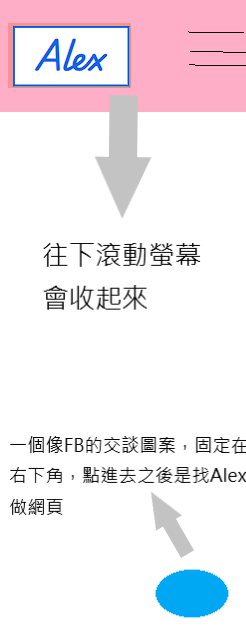
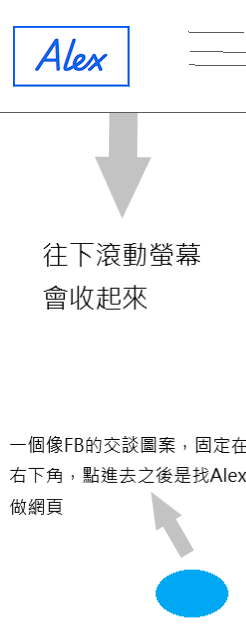
設定LOGO，menuIcon

Changed region(s): [[0.0, 0.0, 1.0, 0.1812]]

diff --git a/index.css b/index.css
@@ -31,7 +31,6 @@
 header {
     position: fixed;
     /* 用flex box排版 */
-    justify-content: center; /* 水平置中 */
     align-items: center; /* 垂直置中 */
     
 
@@ -42,12 +41,12 @@ header {
     /* 設定圖層在最上方，數字越大越上面 */
     z-index: 100;
 
-    background-color: rgb(253, 145, 145);/* 記得刪除 */
-
     width: 100vw;
     height: 14vh;
-    
-    }
+
+    background-color: white;
+    border-bottom: 0.005em solid rgb(224, 224, 224);    
+}
 @media screen and (min-width:576px) {
    header {
     position: fixed;
@@ -84,28 +83,18 @@ header {
     flex-flow: wrap; /* 讓row變多行 */
 }
 
-#navUl a {
-    margin: 3vh;
-    padding: 1vh;
-    color: black; /* 移除超連結顏色 */
-    text-decoration: none; /* 移除超連結底線 */
-    display: block;/* 讓 <a> 填滿 <li> */
-    font-size: 4vh;
-}
 
-#navUl a:hover {
-    background-color: rgb(115, 115, 115);
-    color: white;
-}
 
 #alexLogo {
-    width: 35%;
+    position: absolute;
+    left: 5%;
+    width: 20%;
     height: 50%;
     border: 0.75vw solid #166aea;
     background-color: white;
-    padding: 1vw;
+    padding: 1.5vw;
 
-    font-size: 10vw;
+    font-size: 8vw;
     font-weight: 900;
     text-decoration: none;
     color: #166aea;
@@ -137,13 +126,41 @@ header >a:hover {
     
 }
 
-nav {
+#navTest {
+    position: absolute;
+    right: 5%;
+    width: 10%;
+}
+/* ---------------menuIcon的css開始--------------- */
+#menuIcon {
+  display: inline-block;
+  cursor: pointer;
+}
+.bar1, .bar2, .bar3 {
+  width: 35px;
+  height: 5px;
+  background-color: #333;
+  margin: 6px 0;
+  transition: 0.4s;
+}
+/* Rotate first bar */
+.change .bar1 {
+  transform: translate(0, 11px) rotate(-45deg);
+}
+/* Fade out the second bar */
+.change .bar2 {opacity: 0;}
+/* Rotate last bar */
+.change .bar3 {
+  transform: translate(0, -11px) rotate(45deg);
+}
+/* ---------------menuIcon的css結束--------------- */
+
+
+#nav {
+    /* 暫時先隱藏起來 */
+    display: none;
     position: absolute;
     right: 1vw;
-}
-
-nav > ul {
-    display: none;
 }
 @media screen and (min-width:576px) {
     nav > ul {
@@ -153,6 +170,20 @@ nav > ul {
     margin: 0;
     padding: 0;
     }
+}
+
+#navUl a {
+    margin: 3vh;
+    padding: 1vh;
+    color: black; /* 移除超連結顏色 */
+    text-decoration: none; /* 移除超連結底線 */
+    display: block;/* 讓 <a> 填滿 <li> */
+    font-size: 4vh;
+}
+
+#navUl a:hover {
+    background-color: rgb(115, 115, 115);
+    color: white;
 }
 
 #makeWebsites {

diff --git a/index.html b/index.html
@@ -17,7 +17,6 @@
 
     <title>Alex作品集</title>
     <link href="index.css" rel="stylesheet" type="text/css">
-    <script src="index.js"></script>
 </head>
 <body>
     <header class="flex">
@@ -26,7 +25,15 @@
                 Alex
             </div>
         </a>
-        <nav>
+        <nav id="navTest">
+            <!-- 測試用的，正式的在底下 -->
+            <div id="menuIcon" onclick="myFunction(this)">
+                <div class="bar1"></div>
+                <div class="bar2"></div>
+                <div class="bar3"></div>
+            </div>
+        </nav>
+        <nav id="nav">
             <ul id="navUl">
                 <li><a href="#aboutAlex">關於Alex</a></li>
                 <li><a href="#frontEndPortfolio">前端作品集</a></li>

diff --git a/test/menuIconByCss/index.html b/test/menuIconByCss/index.html
@@ -1,0 +1,17 @@
+<!DOCTYPE html>
+<html lang="en">
+<head>
+    <meta charset="UTF-8">
+    <meta name="viewport" content="width=device-width, initial-scale=1.0">
+    <title>menuIconByCss</title>
+    <link rel="stylesheet" href="index.css">
+</head>
+<body>
+    <div class="container" onclick="myFunction(this)">
+        <div class="bar1"></div>
+        <div class="bar2"></div>
+        <div class="bar3"></div>
+    </div>
+    <script src="index.js"></script>
+</body>
+</html>

diff --git a/test/menuIconByCss/index.css b/test/menuIconByCss/index.css
@@ -1,0 +1,25 @@
+.container {
+  display: inline-block;
+  cursor: pointer;
+}
+
+.bar1, .bar2, .bar3 {
+  width: 35px;
+  height: 5px;
+  background-color: #333;
+  margin: 6px 0;
+  transition: 0.4s;
+}
+
+/* Rotate first bar */
+.change .bar1 {
+  transform: translate(0, 11px) rotate(-45deg);
+}
+
+/* Fade out the second bar */
+.change .bar2 {opacity: 0;}
+
+/* Rotate last bar */
+.change .bar3 {
+  transform: translate(0, -11px) rotate(45deg);
+}

diff --git a/index.js b/index.js
@@ -1,3 +1,4 @@
+// 輪播圖
 $(document).ready(function(){
     $('.carouselAboutAlex').slick({
         // 自動播放
@@ -9,3 +10,8 @@ $(document).ready(function(){
 
     });
 });
+
+// menuIcon動畫
+function myFunction(x) {
+    x.classList.toggle("change");
+}

diff --git a/test/menuIconByCss/index.js b/test/menuIconByCss/index.js
@@ -1,0 +1,3 @@
+function myFunction(x) {
+    x.classList.toggle("change");
+}
